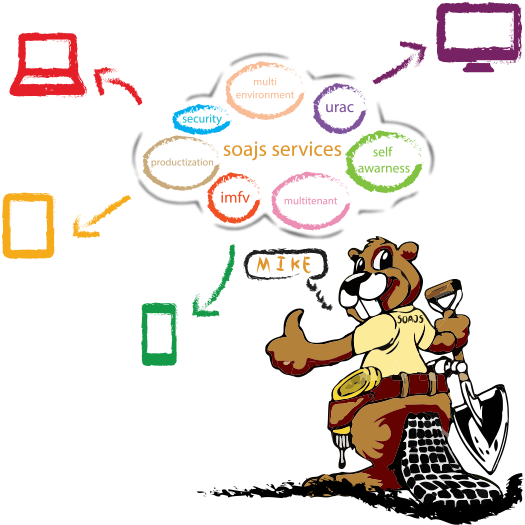
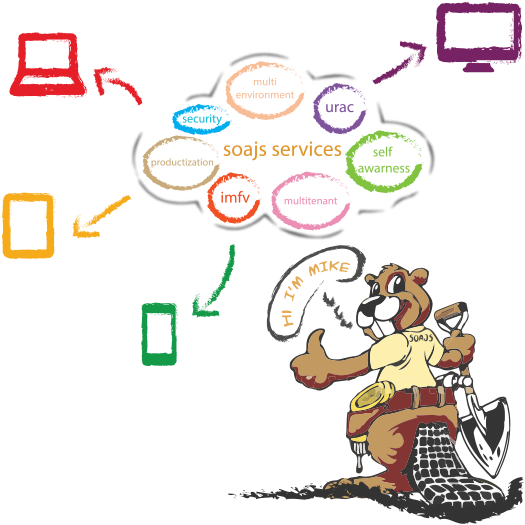
changed homepage images, updates in css

Changed region(s): [[0.3962, 0.4267, 1.0, 1.0]]

diff --git a/css/page.css b/css/page.css
@@ -284,6 +284,7 @@ a:hover {
     bottom: 0;
     width: 45%;
     height: 95%;
+    z-index:10;
 }
 
 .beaverImg {
@@ -293,6 +294,7 @@ a:hover {
     background-size: 95%;
 }
 .beaverImg:hover{
+    background-image: url(../images/bigImg-hover.png);
 }
 .banner .about-container, .banner .banner-container .tagline {
     width: 50%;

diff --git a/css/page-687.css b/css/page-687.css
@@ -138,6 +138,7 @@
         background-image: url(../images/beaverAlone.png);
     }
     .beaverImg:hover{
+        background-image: url(../images/beaverAlone-hover.png);
     }
     .two{
         width: 100%;
